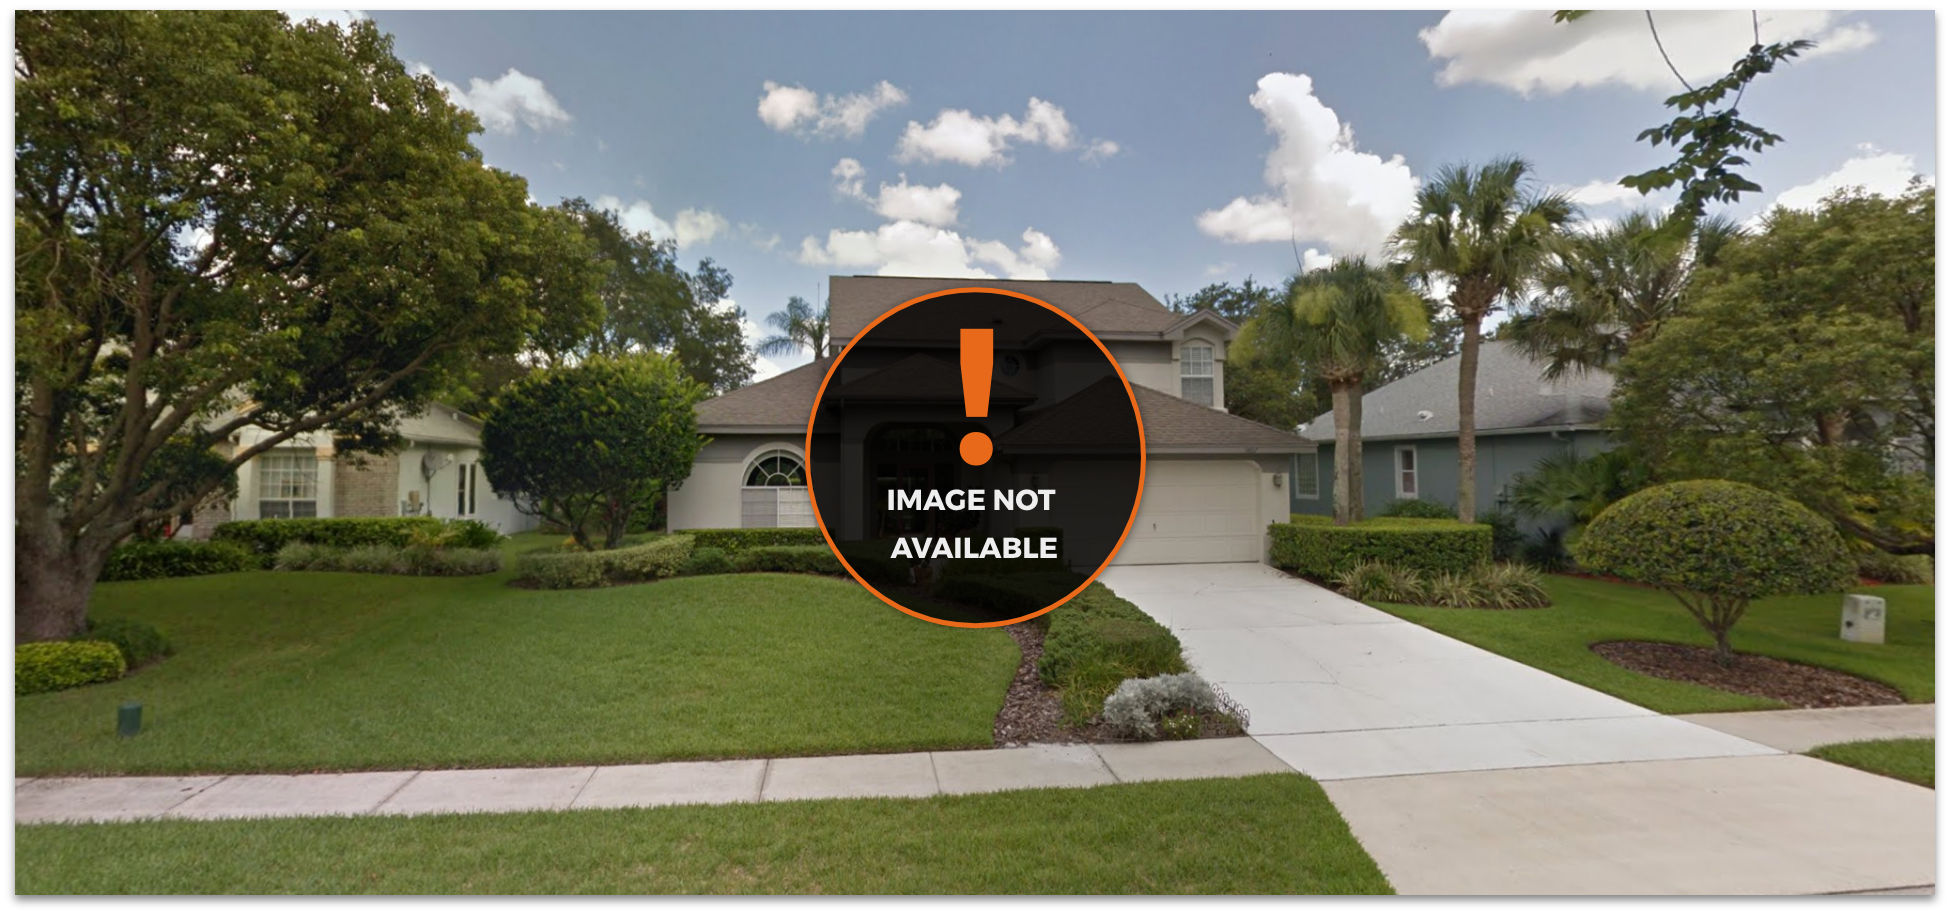
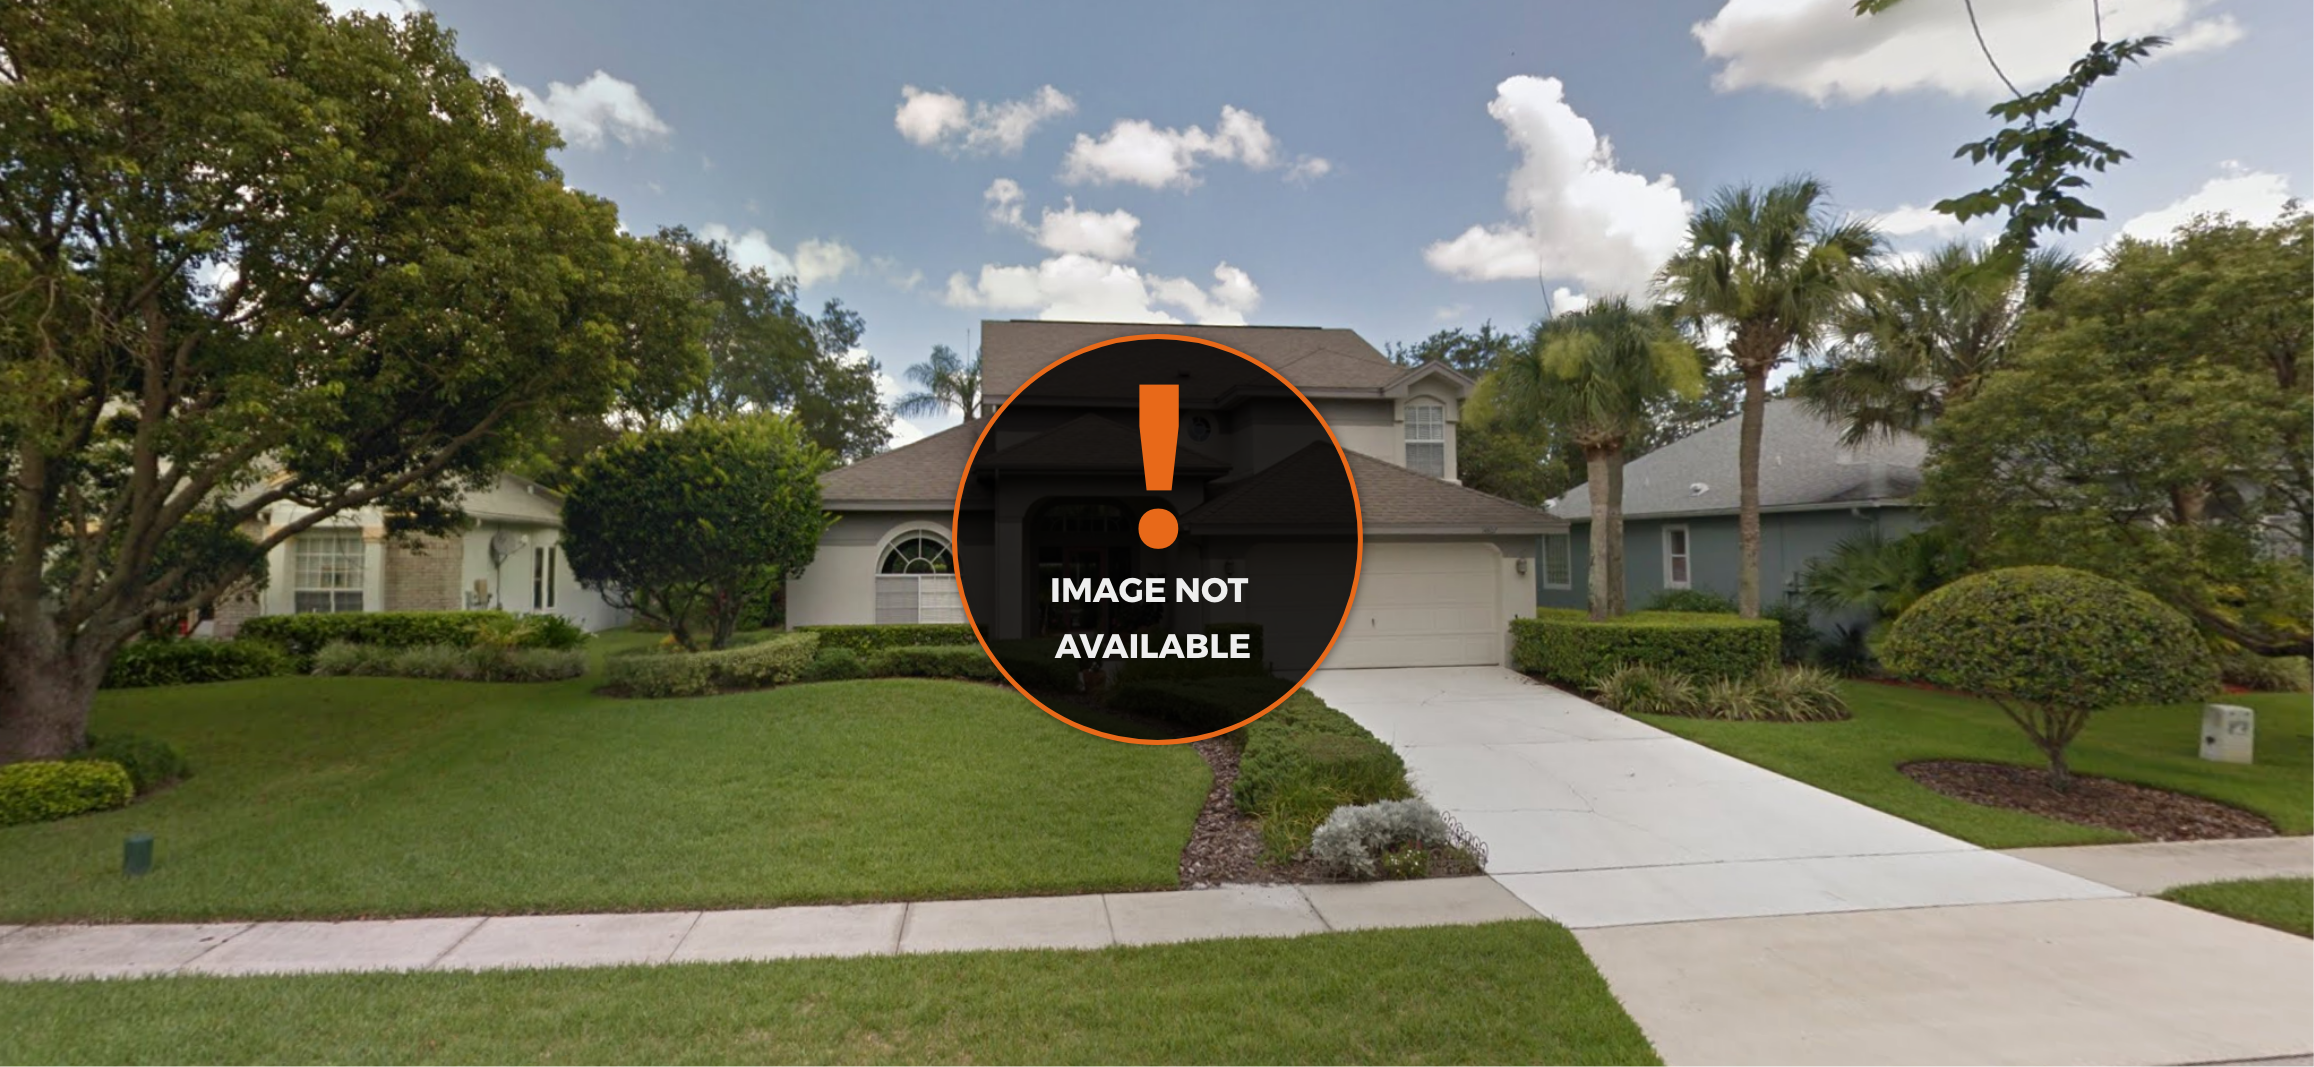
Updated unvailable image

diff --git a/src/components/SearchHere.js b/src/components/SearchHere.js
@@ -2,7 +2,7 @@ import React, { Component } from 'react';
 import axios from 'axios';
 import '../styles/css/SearchHere.css';
 import PropertyDTO from '../PropertyDTO';
-import defaultImg from '../images/propview-property-1.png';
+import defaultImg from '../images/propview-property-unavailable.png';
 const convert = require('xml-js');
 const currencyFormatter = require('currency-formatter');
 
@@ -487,7 +487,7 @@ class SearchHere extends Component {
     else if (p.building && p.building.rooms && p.building.rooms.bathsfull) {
       propDO.bathsFull = p.building.rooms.bathsfull
     }
-    else if (propDO.bathsHalf && p.building.rooms.bathscalc) {
+    else if (propDO.bathsHalf && p.building && p.building.rooms && p.building.rooms.bathscalc) {
       propDO.bathsFull = parseFloat(p.building.rooms.bathscalc) - parseFloat(propDO.bathsHalf)
     }
     else {

diff --git a/src/components/SearchBar.js b/src/components/SearchBar.js
@@ -2,7 +2,7 @@ import React, { Component } from 'react';
 import axios from 'axios';
 import '../styles/css/SearchBar.css'
 import PropertyDTO from '../PropertyDTO';
-import defaultImg from '../images/propview-property-1.png';
+import defaultImg from '../images/propview-property-unavailable.png';
 const parser = require('parse-address');
 const convert = require('xml-js');
 const currencyFormatter = require('currency-formatter');
